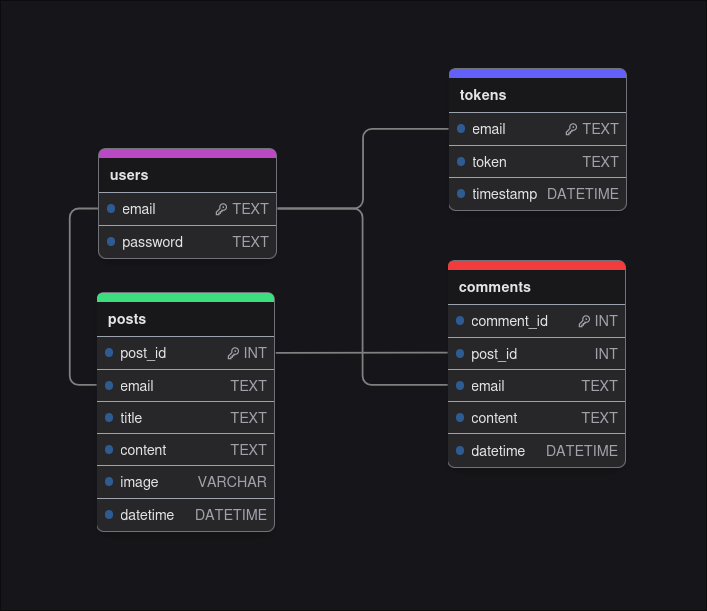
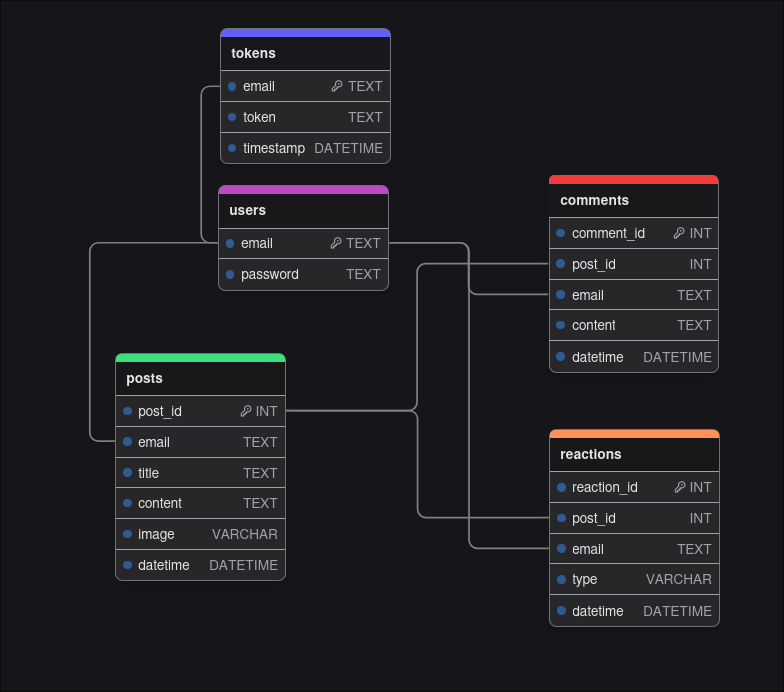
Reactions
User's reaction using the Fetch API (Unicode Chars)

Changed region(s): [[0.0934, 0.0311, 0.9335, 0.9329], [0.529, 0.0933, 0.9024, 0.2177], [0.8091, 0.1866, 0.8713, 0.2177]]

diff --git a/public/javascripts/js.js b/public/javascripts/js.js
@@ -10,8 +10,41 @@ function evalLinks(element) {
   }
 }
 
-function createCard(content) {
+async function addReaction(reaction, id) {
+  let response = await fetch("/api/reaction", {
+    credentials: "same-origin",
+    method: "POST",
+    body: `reaction=${reaction}&post_id=${id}`,
+  });
+  let data = await response.json();
+  if (data.status === "ok") {
+    let reactions = document.getElementById(id).querySelector("#reactions");
+    reactions.childNodes.forEach((reaction) => {
+      if (reaction.classList.contains("btn-outline")) {
+        let reactionCount = reaction.querySelector(".badge");
+        reactionCount.textContent = parseInt(reactionCount.textContent) - 1;
+        reaction.classList.remove("btn-outline");
+      }
+    });
+    let reactionElement = reactions.querySelector(`.${reaction}`);
+    reactionElement.classList.add("btn-outline");
+    let reactionCount = reactionElement.querySelector(".badge");
+    reactionCount.textContent = parseInt(reactionCount.textContent) + 1;
+  }
+}
+
+async function getReaction(id) {
+  let response = await fetch(`/api/userreaction?post_id=${id}`, {
+    credentials: "same-origin",
+    method: "GET",
+  });
+  let data = await response.json();
+  return data.type;
+}
+
+async function createCard(content) {
   let card = document.createElement("div");
+  card.id = content.post_id;
   card.classList.add(
     "card",
     "w-full",
@@ -27,8 +60,7 @@ function createCard(content) {
   let avatarImg = document.createElement("div");
   avatarImg.classList.add("w-12", "rounded-btn");
   let pfpOwner = document.createElement("img");
-  pfpOwner.src =
-    `https://api.dicebear.com/8.x/notionists-neutral/svg?seed=${content.email}`;
+  pfpOwner.src = `https://api.dicebear.com/8.x/notionists-neutral/svg?seed=${content.email}`;
   pfpOwner.alt = "Avatar";
   avatarImg.appendChild(pfpOwner);
   avatar.appendChild(avatarImg);
@@ -63,6 +95,56 @@ function createCard(content) {
   p.classList.add("break-words", "whitespace-pre-line");
   p.textContent = decodeURIComponent(content.content);
   evalLinks(p);
+
+  let userReaction = await getReaction(content.post_id);
+
+  let reactions = document.createElement("div");
+  reactions.id = "reactions";
+  reactions.classList.add("flex", "gap-4", "justify-end", "mt-4");
+  let heart = document.createElement("div");
+  heart.classList.add("btn", "btn-sm", "heart");
+  if (userReaction === "heart") {
+    heart.classList.add("btn-outline");
+  }
+  heart.textContent = "\u2764";
+  let heartCount = document.createElement("div");
+  heartCount.textContent = content.reactions.heart || 0;
+  heartCount.classList.add("badge", "badge-secondary");
+  heart.appendChild(heartCount);
+  let thumbsUp = document.createElement("div");
+  thumbsUp.classList.add("btn", "btn-sm", "thumbsUp");
+  if (userReaction === "thumbsUp") {
+    thumbsUp.classList.add("btn-outline");
+  }
+  thumbsUp.textContent = "\u{1F44D}";
+  let thumbsUpCount = document.createElement("div");
+  thumbsUpCount.textContent = content.reactions.thumbsUp || 0;
+  thumbsUpCount.classList.add("badge", "badge-secondary");
+  thumbsUp.appendChild(thumbsUpCount);
+  let thumbsDown = document.createElement("div");
+  thumbsDown.classList.add("btn", "btn-sm", "thumbsDown");
+  if (userReaction === "thumbsDown") {
+    thumbsDown.classList.add("btn-outline");
+  }
+  thumbsDown.textContent = "\u{1F44E}";
+  let thumbsDownCount = document.createElement("div");
+  thumbsDownCount.textContent = content.reactions.thumbsDown || 0;
+  thumbsDownCount.classList.add("badge", "badge-secondary");
+  thumbsDown.appendChild(thumbsDownCount);
+  reactions.appendChild(heart);
+  reactions.appendChild(thumbsUp);
+  reactions.appendChild(thumbsDown);
+
+  heart.addEventListener("click", () => {
+    addReaction("heart", content.post_id);
+  });
+  thumbsUp.addEventListener("click", () => {
+    addReaction("thumbsUp", content.post_id);
+  });
+  thumbsDown.addEventListener("click", () => {
+    addReaction("thumbsDown", content.post_id);
+  });
+
   let divider = document.createElement("div");
   divider.classList.add("divider");
   divider.textContent = "Comments";
@@ -76,8 +158,7 @@ function createCard(content) {
     let avatarImg = document.createElement("div");
     avatarImg.classList.add("w-12", "rounded-btn");
     let pfp = document.createElement("img");
-    pfp.src =
-      `https://api.dicebear.com/8.x/notionists-neutral/svg?seed=${comment.email}`;
+    pfp.src = `https://api.dicebear.com/8.x/notionists-neutral/svg?seed=${comment.email}`;
     pfp.alt = "Avatar";
     avatarImg.appendChild(pfp);
     avatar.appendChild(avatarImg);
@@ -128,6 +209,7 @@ function createCard(content) {
   let input = document.createElement("input");
   input.classList.add("input", "input-bordered", "grow");
   input.setAttribute("name", "content");
+  input.setAttribute("required", "");
   input.placeholder = "Add a comment";
   let button = document.createElement("button");
   button.classList.add("btn", "btn-primary", "grow", "lg:grow-0");
@@ -142,6 +224,7 @@ function createCard(content) {
   }
   cardBody.appendChild(h2);
   cardBody.appendChild(p);
+  cardBody.appendChild(reactions);
   cardBody.appendChild(divider);
   cardBody.appendChild(comments);
   cardBody.appendChild(form);
@@ -154,8 +237,8 @@ document.addEventListener("DOMContentLoaded", async () => {
   let response = await fetch("/api/posts");
   let posts = await response.json();
   let container = document.getElementById("posts");
-  posts.forEach((post) => {
-    let card = createCard(post);
+  posts.forEach(async (post) => {
+    let card = await createCard(post);
     container.appendChild(card);
   });
 });

diff --git a/src/http/handle_post.rs b/src/http/handle_post.rs
@@ -112,6 +112,13 @@ async fn post_comment(params: Vec<&str>, sha256_token: &str) -> String {
         None => return "HTTP/1.1 400 BAD REQUEST\r\n\r\n".to_string() + "400 Bad Request",
     };
 
+    if content.trim_end_matches('\n').is_empty() {
+        return "HTTP/1.1 400 BAD REQUEST\r\n\r\n".to_string() + "400 Bad Request";
+    }
+    if content.is_empty() {
+        return "HTTP/1.1 400 BAD REQUEST\r\n\r\n".to_string() + "400 Bad Request";
+    }
+
     let content: String = urlencoding::encode(content).to_string();
     let post_id: i64 = match vec_params.iter().find(|param| param.0 == "post_id") {
         Some(param) => param.1.parse::<i64>().unwrap(),
@@ -131,6 +138,65 @@ async fn post_comment(params: Vec<&str>, sha256_token: &str) -> String {
 
     return "HTTP/1.1 301 Moved Permanently\r\nLocation: /\r\nContent-Length: 0\r\n\r\n"
         .to_string();
+}
+
+async fn post_reaction(params: Vec<&str>, sha256_token: &str) -> String {
+    println!("Params: {:?}, Token: {}", params, sha256_token);
+    let decoded: JsonValue = token::get_userdata(sha256_token).await;
+    if decoded == JsonValue::Null {
+        return "HTTP/1.1 401 UNAUTHORIZED\r\n\r\n".to_string() + "401 Unauthorized";
+    }
+    let email: &str = decoded["email"].as_str().unwrap();
+    let dbconn: Connection = dbconn();
+    let post_id: i64 = match params.iter().find(|param| param.starts_with("post_id=")) {
+        Some(param) => param.split('=').collect::<Vec<&str>>()[1]
+            .trim_end_matches('\n')
+            .parse::<i64>()
+            .unwrap(),
+        None => return "HTTP/1.1 400 BAD REQUEST\r\n\r\n".to_string() + "400 Bad Request",
+    };
+    let reaction: &str = match params.iter().find(|param| param.starts_with("reaction=")) {
+        Some(param) => param.split('=').collect::<Vec<&str>>()[1],
+        None => return "HTTP/1.1 400 BAD REQUEST\r\n\r\n".to_string() + "400 Bad Request",
+    };
+    let reaction: &str = reaction.trim_end_matches('\n');
+    let reaction_exists: bool = dbconn
+        .query_row(
+            "SELECT EXISTS(SELECT 1 FROM reactions WHERE email = ?1 AND post_id = ?2)",
+            &[
+                &email as &dyn rusqlite::ToSql,
+                &post_id as &dyn rusqlite::ToSql,
+            ],
+            |row| row.get(0),
+        )
+        .unwrap();
+
+    if reaction_exists {
+        dbconn
+            .execute(
+                "UPDATE reactions SET type = ?1 WHERE email = ?2 AND post_id = ?3",
+                &[
+                    &reaction as &dyn rusqlite::ToSql,
+                    &email as &dyn rusqlite::ToSql,
+                    &post_id as &dyn rusqlite::ToSql,
+                ],
+            )
+            .unwrap();
+        return "HTTP/1.1 200 OK\r\n\r\n {\"status\": \"ok\"}".to_string();
+    }
+
+    dbconn
+        .execute(
+            "INSERT INTO reactions (email, post_id, type) VALUES (?1, ?2, ?3)",
+            &[
+                &email as &dyn rusqlite::ToSql,
+                &post_id as &dyn rusqlite::ToSql,
+                &reaction as &dyn rusqlite::ToSql,
+            ],
+        )
+        .unwrap();
+
+    return "HTTP/1.1 200 OK\r\n\r\n {\"status\": \"ok\"}".to_string();
 }
 
 pub async fn post(path: String, headers: Vec<(String, String)>, body: String) -> (String, Vec<u8>) {
@@ -157,6 +223,7 @@ pub async fn post(path: String, headers: Vec<(String, String)>, body: String) ->
         "/api/login" => post_login(dbconn(), params).await,
         "/api/logout" => post_logout(),
         "/api/comment" => post_comment(params, sha256_token).await,
+        "/api/reaction" => post_reaction(params, sha256_token).await,
         _ => "HTTP/1.1 404 NOT FOUND\r\n\r\n".to_string() + "404 Not Found",
     };
 

diff --git a/src/http/handle_get.rs b/src/http/handle_get.rs
@@ -74,9 +74,30 @@ async fn api_posts() -> String {
         }
         comments.push_str("]");
 
+        let mut stmt = dbconn
+            .prepare(
+                "SELECT type, COUNT(type) AS count FROM reactions WHERE post_id = ? GROUP BY type",
+            )
+            .unwrap();
+        let reactions_iter = stmt.query_map([post_id], |row| {
+            Ok((row.get::<_, String>(0)?, row.get::<_, i64>(1)?))
+        });
+
+        let mut reactions: String = "{".to_string();
+        for reaction in reactions_iter.unwrap() {
+            let reaction = reaction.unwrap();
+            let reaction_type: String = reaction.0;
+            let reaction_count: i64 = reaction.1;
+            reactions.push_str(&format!(r#""{}":{},"#, reaction_type, reaction_count));
+        }
+        if reactions.chars().last().unwrap() == ',' {
+            reactions.pop();
+        }
+        reactions.push_str("}");
+
         posts.push_str(&format!(
-            r#"{{"post_id":{},"title":"{}","content":"{}","email":"{}","datetime":"{}","image":"{}","comments":{}}},"#,
-            post_id, title, content, email, datetime, image, comments
+            r#"{{"post_id":{},"title":"{}","content":"{}","email":"{}","datetime":"{}","image":"{}","comments":{},"reactions":{}}},"#,
+            post_id, title, content, email, datetime, image, comments, reactions
         ));
     }
 
@@ -88,6 +109,30 @@ async fn api_posts() -> String {
     return format!(
         "HTTP/1.1 200 OK\r\nContent-Type: application/json\r\n\r\n{}",
         posts
+    );
+}
+
+async fn api_userreaction(post_id: i64, email: String) -> String {
+    let dbconn: Connection = dbconn();
+    let mut stmt = dbconn
+        .prepare("SELECT type FROM reactions WHERE post_id = ? AND email = ?")
+        .unwrap();
+    let reaction_iter = stmt.query_map(
+        [
+            &post_id as &dyn rusqlite::types::ToSql,
+            &email as &dyn rusqlite::types::ToSql,
+        ],
+        |row| Ok(row.get::<_, String>(0)?),
+    );
+
+    let mut reaction: String = "null".to_string();
+    for reaction_type in reaction_iter.unwrap() {
+        reaction = reaction_type.unwrap();
+    }
+
+    return format!(
+        "HTTP/1.1 200 OK\r\nContent-Type: application/json\r\n\r\n{{\"type\":\"{}\"}}",
+        reaction
     );
 }
 
@@ -177,6 +222,9 @@ async fn match_plain_content(
     queries: Vec<(String, String)>,
 ) -> String {
     let auth: bool = auth_token(&sha256_token).await;
+    let decoded: JsonValue = get_userdata(&sha256_token).await;
+    let email: String = decoded["email"].to_string();
+
     if requested_endpoint.0 == "api" {
         let post_id = queries
             .iter()
@@ -188,6 +236,7 @@ async fn match_plain_content(
         match requested_endpoint.1.as_str() {
             "posts" => return api_posts().await,
             "comments" => return api_comments(post_id).await,
+            "userreaction" => return api_userreaction(post_id, email).await,
             _ => return "HTTP/1.1 404 NOT FOUND\r\nContent-Length: 0\r\n\r\n".to_string(),
         }
     }

diff --git a/src/db.rs b/src/db.rs
@@ -47,6 +47,21 @@ pub fn init_db() {
 
     dbconn()
         .execute(
+            "CREATE TABLE IF NOT EXISTS reactions (
+                reaction_id INTEGER PRIMARY KEY AUTOINCREMENT,
+                post_id INTEGER NOT NULL,
+                email TEXT NOT NULL,
+                type VARCHAR(255) NOT NULL,
+                datetime DEFAULT CURRENT_TIMESTAMP,
+                FOREIGN KEY(post_id) REFERENCES posts(post_id) ON DELETE CASCADE,
+                FOREIGN KEY(email) REFERENCES users(email) ON DELETE CASCADE
+            )",
+            [],
+        )
+        .unwrap();
+
+    dbconn()
+        .execute(
             "CREATE TABLE IF NOT EXISTS tokens (
                     email TEXT PRIMARY KEY,
                     token TEXT NOT NULL,

diff --git a/README.md b/README.md
@@ -83,7 +83,15 @@ The database has the following tables:
   - Primary key: **_comment_id_**
   - Foreign key: **_post_id_** references **_posts(post_id)_** on delete cascade
   - Foreign key: **_email_** references **_users(email)_** on delete cascade
-    ![Database Structure](dbstructure.png)
+- **reactions**: Contains the reactions' data (heart, like, dislike)
+  - **reaction_id**: The UUID of the reaction
+  - **post_id**: The UUID of the post
+  - **email**: The email of the user that created the reaction
+  - **type**: The reaction of the user
+  - Primary key: **_reaction_id_**
+  - Foreign key: **_post_id_** references **_posts(post_id)_** on delete cascade
+  - Foreign key: **_email_** references **_users(email)_** on delete cascade
+![Database Structure](dbstructure.png)
 
 ## How to run
 
